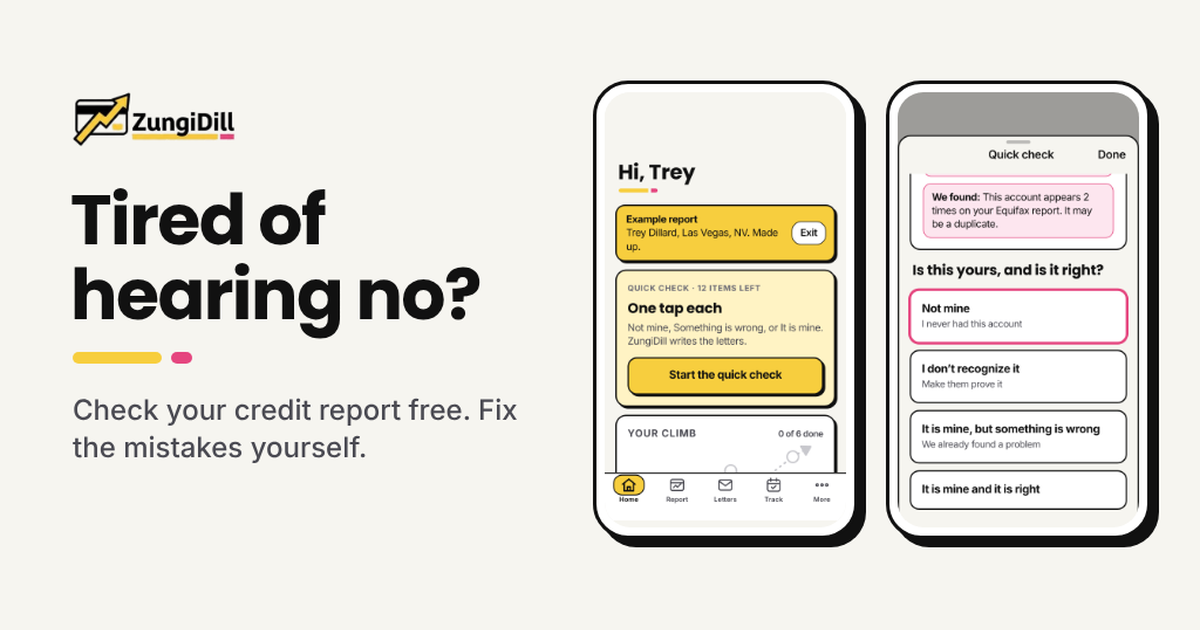
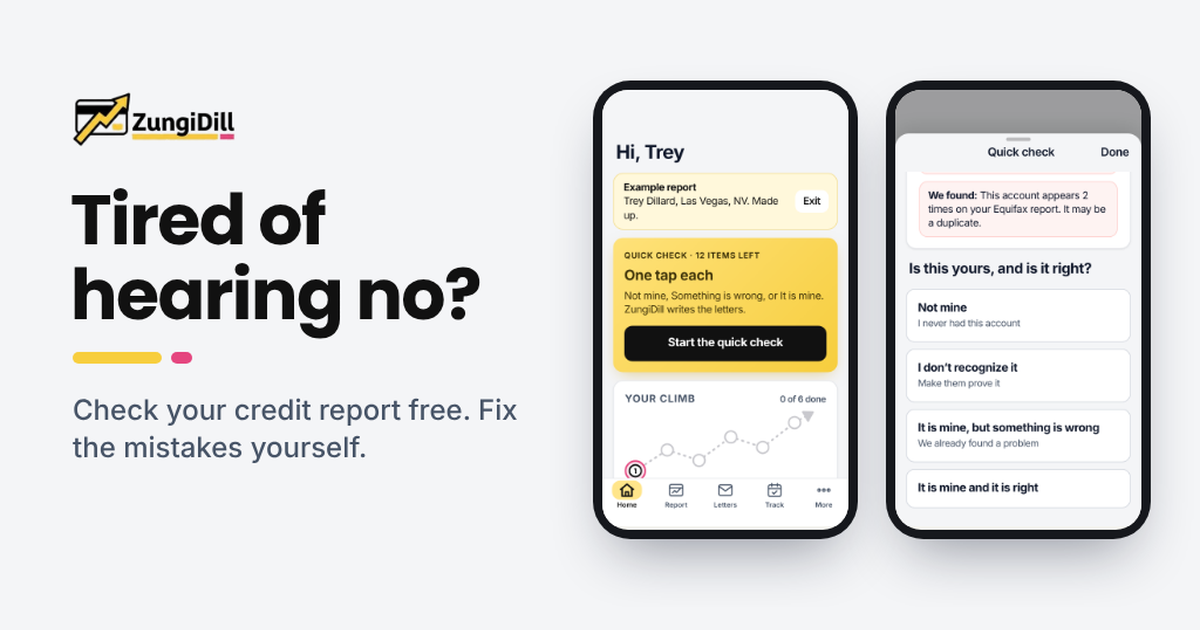
Notify box at top, message form at bottom, color look, Learn guides

Changed region(s): [[0.4933, 0.1206, 0.9867, 0.9048]]

diff --git a/index.html b/index.html
@@ -32,7 +32,7 @@
     <a class="logo" href="/" aria-label="ZungiDill home"><img src="/img/logo.png" alt="ZungiDill" width="152" height="38"></a>
     <nav aria-label="Main">
       <ul>
-        <li><a href="/#how">How it works</a></li>
+        <li class="hide-sm"><a href="/#how">How it works</a></li>
         <li><a href="/learn/">Learn</a></li>
         <li class="hide-sm"><a href="/#questions">Questions</a></li>
         <li><a href="/support">Support</a></li>
@@ -50,11 +50,16 @@
       <p class="lede">You work hard and pay your way, a lot of times in cash. Still the answer is no, or yes with a payment that hurts. Sometimes what holds you back is a mistake on your credit report. ZungiDill helps you find it and fix it yourself.</p>
       <div class="stores">
         <a href="https://play.google.com/store/apps/details?id=com.numerita.zungidil" aria-label="Get it on Google Play"><img src="/img/badge-google-play.png" alt="Get it on Google Play" width="176" height="52"></a>
-        <a href="#notify" aria-label="iPhone app coming soon. Join the list"><img src="/img/badge-app-store-soon.png" alt="Download on the App Store, coming soon" width="147" height="52"></a>
+        <a class="soon" href="#notify"><svg viewBox="0 0 24 24" aria-hidden="true"><rect x="6" y="2" width="12" height="20" rx="3"/><path d="M11 18h2"/></svg><span><small>Coming soon on</small>App Store</span></a>
       </div>
+      <form class="notify" id="notify" action="https://tally.so/r/VLR6RJ" method="get" target="_blank" rel="noopener">
+        <label for="nemail"><b>Get notified when ZungiDill is on the App Store</b></label>
+        <div class="nrow"><input id="nemail" name="email" type="email" placeholder="Your email" autocomplete="email" required><button class="nbtn" type="submit">Notify me</button></div>
+        <label class="ncheck"><input type="checkbox" required><span>Email me once when the iPhone app is available. Nothing else. <a href="/privacy#launch-list">Privacy</a></span></label>
+      </form>
       <ul class="ticks"><li>Free to check</li><li>No account</li><li>No Social Security number</li><li>Stays on your phone</li><li>No monthly plan required</li></ul>
     </div>
-    <div class="phone"><img src="/img/zd-home.webp" alt="ZungiDill home screen with a quick check and your next step" width="620" height="1265" fetchpriority="high"></div>
+    <div class="wall" aria-label="ZungiDill app screens"><div class="col c1"><img src="/img/screens/welcome.webp" alt="Welcome screen with three steps" width="600" height="1300" loading="lazy"><img src="/img/screens/qc.webp" alt="Quick check asking if an item is yours" width="600" height="1300" fetchpriority="high"><img src="/img/screens/letters.webp" alt="A dispute letter ready to print" width="600" height="1300" loading="lazy"></div><div class="col c2"><img src="/img/screens/home.webp" alt="Home screen with a quick check and your next step" width="600" height="1300" fetchpriority="high"><img src="/img/screens/report.webp" alt="Report tab with items to check, in dispute and fixed" width="600" height="1300" loading="lazy"><img src="/img/screens/track.webp" alt="Track tab counting the days until the bureau must answer" width="600" height="1300" loading="lazy"></div><div class="col c3"><img src="/img/screens/qc2.webp" alt="Quick check flagging a collection that may be too old to report" width="600" height="1300" fetchpriority="high"><img src="/img/screens/rows.webp" alt="Report items marked in red when something is wrong" width="600" height="1300" loading="lazy"><img src="/img/screens/plan.webp" alt="A plan for getting a car on your terms" width="600" height="1300" loading="lazy"></div></div>
   </div>
 </section>
 
@@ -75,7 +80,7 @@
     <div class="sh"><h2 id="how-h">How it works</h2><p>No forms to figure out and no calls to make. You stay in charge the whole way.</p></div>
     <div class="steps">
       <article class="step"><div class="shot"><img src="/img/zd-report.webp" alt="Report screen with your progress and your path" width="620" height="1265" loading="lazy"></div><div class="txt"><p class="n">First</p><h3>Bring in your report</h3><p>Get your free report and open it in ZungiDill. A photo of a paper copy works too.</p></div></article>
-      <article class="step"><div class="shot"><img src="/img/zd-quick-check.webp" alt="Quick check asking if an address on your report is yours" width="620" height="1265" loading="lazy"></div><div class="txt"><p class="n">Next</p><h3>Tap what is wrong</h3><p>Not mine. I don't know this one. Something is off. Your taps become the letter.</p></div></article>
+      <article class="step"><div class="shot"><img src="/img/zd-quick-check.webp" alt="Quick check asking if an item on your report is yours" width="620" height="1265" loading="lazy"></div><div class="txt"><p class="n">Next</p><h3>Tap what is wrong</h3><p>Not mine. I don't know this one. Something is off. Your taps become the letter.</p></div></article>
       <article class="step"><div class="shot"><img src="/img/zd-track.webp" alt="Track screen showing a letter waiting for an answer" width="620" height="1265" loading="lazy"></div><div class="txt"><p class="n">Then</p><h3>Mail it, we keep watch</h3><p>Add the day it arrived. ZungiDill reminds you when they owe you an answer and helps you read it.</p></div></article>
     </div>
     <p class="timing"><b>How long does it take?</b> The credit bureaus usually have about 30 days to answer each letter. Start now, so it can be done before you apply for the car, the place or the card.</p>
@@ -109,12 +114,6 @@
         <h3>Send us a message</h3>
         <iframe class="tally" data-tally-src="https://tally.so/embed/Zj479y?alignLeft=1&amp;hideTitle=1&amp;transparentBackground=1&amp;dynamicHeight=1" loading="lazy" width="100%" height="300" frameborder="0" marginheight="0" marginwidth="0" title="Send us a message"></iframe>
         <noscript><p class="fine"><a href="https://tally.so/r/Zj479y">Open the form</a></p></noscript>
-      </div>
-      <div class="panel" id="notify">
-        <h3>iPhone is coming</h3>
-        <iframe class="tally" data-tally-src="https://tally.so/embed/VLR6RJ?alignLeft=1&amp;hideTitle=1&amp;transparentBackground=1&amp;dynamicHeight=1" loading="lazy" width="100%" height="150" frameborder="0" marginheight="0" marginwidth="0" title="iPhone launch list"></iframe>
-        <noscript><p class="fine"><a href="https://tally.so/r/VLR6RJ">Open the form</a></p></noscript>
-        <p class="fine"><a href="/privacy#launch-list">How we use your email</a></p>
       </div>
     </div>
   </div>

diff --git a/css/site.css b/css/site.css
@@ -206,3 +206,43 @@ ol.sources{padding-left:22px;display:grid;gap:6px;font-size:15px}
 footer .grid{grid-template-columns:1.2fr 1fr 1fr 1fr}
 @media (max-width:900px){.cards{grid-template-columns:1fr}footer .grid{grid-template-columns:1fr 1fr}}
 .doc ul.cards{padding-left:0;display:grid;gap:12px}.doc .cta h3{margin-top:0}.doc .cards li{color:inherit}
+.phone{border:0;background:#16181D;padding:9px;box-shadow:0 30px 60px -28px rgba(15,23,42,.45)}
+/* hero screen wall */
+.hero{grid-template-columns:1fr 1fr;align-items:center}
+.hero>div:first-child{padding-top:0}
+section.first{padding:0;overflow:hidden}
+section.first .hero>div:first-child{padding:56px 0}
+.wall{position:relative;height:640px;display:flex;gap:28px;justify-content:center;-webkit-mask-image:linear-gradient(transparent,#000 9%,#000 91%,transparent);mask-image:linear-gradient(transparent,#000 9%,#000 91%,transparent)}
+.wall .col{display:flex;flex-direction:column;gap:28px;flex:none;width:200px}
+.wall .c1{margin-top:-210px}.wall .c2{margin-top:-90px}.wall .c3{margin-top:40px}
+.wall img{width:200px;height:auto;aspect-ratio:600/1300;border:7px solid #E4E7EC;border-radius:24px;box-shadow:0 35px 64px rgba(77,77,77,.2);background:#F4F5F7;box-sizing:content-box}
+@media (max-width:900px){
+  section.first .hero>div:first-child{padding:36px 0 8px}
+  .wall{height:430px;gap:16px}
+  .wall .col{width:150px;gap:16px}.wall img{width:150px;border-width:5px;border-radius:18px}
+  .wall .c1{margin-top:-150px}.wall .c2{margin-top:-60px}.wall .c3{margin-top:20px}
+}
+@media (max-width:520px){.wall .c3{display:none}}
+.bar .logo{flex:none}
+@media (max-width:900px){.hero{grid-template-columns:1fr}}
+/* coming soon badge + notify card */
+.stores .soon{display:flex;align-items:center;gap:8px;height:52px;padding:0 16px 0 12px;border-radius:9px;background:#ECEDEF;color:#111;text-decoration:none}
+.stores .soon svg{width:22px;height:22px;fill:none;stroke:#111;stroke-width:1.9;stroke-linecap:round}
+.stores .soon span{display:flex;flex-direction:column;line-height:1.05;font-size:19px;font-weight:600;letter-spacing:-.01em}
+.stores .soon small{font-size:10.5px;font-weight:500;color:#45454C;letter-spacing:0}
+.notify{margin-top:20px;background:#fff;border-radius:14px;padding:16px 18px;box-shadow:0 1px 2px rgba(16,24,40,.05),0 6px 20px -8px rgba(16,24,40,.12);max-width:500px}
+.notify>label b{font-size:15px}
+.nrow{display:flex;gap:8px;margin-top:10px}
+.nrow input{flex:1;min-width:0;height:46px;border:1px solid #D0D5DD;border-radius:10px;padding:0 14px;font:inherit;font-size:15.5px;background:#fff}
+.nrow input:focus{outline:0;border-color:#111;box-shadow:0 0 0 3px rgba(247,206,62,.5)}
+.nbtn{height:46px;padding:0 18px;border:0;border-radius:10px;background:#111;color:#fff;font:600 15.5px var(--sans);cursor:pointer;white-space:nowrap}
+.nbtn:hover{background:#2B2B2B}
+.ncheck{display:flex;align-items:center;gap:8px;margin-top:10px;font-size:13.5px;color:var(--ink2);flex-wrap:wrap}
+.ncheck input{width:16px;height:16px;margin:0;accent-color:#111}
+.ncheck a{color:var(--ink)}
+.forms{grid-template-columns:1fr;max-width:720px}
+.hero .ticks{margin-top:16px}
+@media (max-width:420px){.nrow{flex-direction:column}.nbtn{width:100%}}
+.ncheck{flex-wrap:nowrap;align-items:flex-start}
+.ncheck input{margin-top:2px;flex:none}
+@media (max-width:420px){.nrow input{flex:none;width:100%}}

diff --git a/guide.html b/guide.html
@@ -32,7 +32,7 @@
     <a class="logo" href="/" aria-label="ZungiDill home"><img src="/img/logo.png" alt="ZungiDill" width="152" height="38"></a>
     <nav aria-label="Main">
       <ul>
-        <li><a href="/#how">How it works</a></li>
+        <li class="hide-sm"><a href="/#how">How it works</a></li>
         <li><a href="/learn/" aria-current="page">Learn</a></li>
         <li class="hide-sm"><a href="/#questions">Questions</a></li>
         <li><a href="/support">Support</a></li>

diff --git a/learn/car-loan.html b/learn/car-loan.html
@@ -32,7 +32,7 @@
     <a class="logo" href="/" aria-label="ZungiDill home"><img src="/img/logo.png" alt="ZungiDill" width="152" height="38"></a>
     <nav aria-label="Main">
       <ul>
-        <li><a href="/#how">How it works</a></li>
+        <li class="hide-sm"><a href="/#how">How it works</a></li>
         <li><a href="/learn/" aria-current="page">Learn</a></li>
         <li class="hide-sm"><a href="/#questions">Questions</a></li>
         <li><a href="/support">Support</a></li>

diff --git a/learn/collections.html b/learn/collections.html
@@ -32,7 +32,7 @@
     <a class="logo" href="/" aria-label="ZungiDill home"><img src="/img/logo.png" alt="ZungiDill" width="152" height="38"></a>
     <nav aria-label="Main">
       <ul>
-        <li><a href="/#how">How it works</a></li>
+        <li class="hide-sm"><a href="/#how">How it works</a></li>
         <li><a href="/learn/" aria-current="page">Learn</a></li>
         <li class="hide-sm"><a href="/#questions">Questions</a></li>
         <li><a href="/support">Support</a></li>

diff --git a/learn/credit-repair.html b/learn/credit-repair.html
@@ -32,7 +32,7 @@
     <a class="logo" href="/" aria-label="ZungiDill home"><img src="/img/logo.png" alt="ZungiDill" width="152" height="38"></a>
     <nav aria-label="Main">
       <ul>
-        <li><a href="/#how">How it works</a></li>
+        <li class="hide-sm"><a href="/#how">How it works</a></li>
         <li><a href="/learn/" aria-current="page">Learn</a></li>
         <li class="hide-sm"><a href="/#questions">Questions</a></li>
         <li><a href="/support">Support</a></li>

diff --git a/learn/dispute-letter.html b/learn/dispute-letter.html
@@ -32,7 +32,7 @@
     <a class="logo" href="/" aria-label="ZungiDill home"><img src="/img/logo.png" alt="ZungiDill" width="152" height="38"></a>
     <nav aria-label="Main">
       <ul>
-        <li><a href="/#how">How it works</a></li>
+        <li class="hide-sm"><a href="/#how">How it works</a></li>
         <li><a href="/learn/" aria-current="page">Learn</a></li>
         <li class="hide-sm"><a href="/#questions">Questions</a></li>
         <li><a href="/support">Support</a></li>

diff --git a/learn/goodwill-letter.html b/learn/goodwill-letter.html
@@ -32,7 +32,7 @@
     <a class="logo" href="/" aria-label="ZungiDill home"><img src="/img/logo.png" alt="ZungiDill" width="152" height="38"></a>
     <nav aria-label="Main">
       <ul>
-        <li><a href="/#how">How it works</a></li>
+        <li class="hide-sm"><a href="/#how">How it works</a></li>
         <li><a href="/learn/" aria-current="page">Learn</a></li>
         <li class="hide-sm"><a href="/#questions">Questions</a></li>
         <li><a href="/support">Support</a></li>

diff --git a/learn/how-long.html b/learn/how-long.html
@@ -32,7 +32,7 @@
     <a class="logo" href="/" aria-label="ZungiDill home"><img src="/img/logo.png" alt="ZungiDill" width="152" height="38"></a>
     <nav aria-label="Main">
       <ul>
-        <li><a href="/#how">How it works</a></li>
+        <li class="hide-sm"><a href="/#how">How it works</a></li>
         <li><a href="/learn/" aria-current="page">Learn</a></li>
         <li class="hide-sm"><a href="/#questions">Questions</a></li>
         <li><a href="/support">Support</a></li>

diff --git a/learn/index.html b/learn/index.html
@@ -32,7 +32,7 @@
     <a class="logo" href="/" aria-label="ZungiDill home"><img src="/img/logo.png" alt="ZungiDill" width="152" height="38"></a>
     <nav aria-label="Main">
       <ul>
-        <li><a href="/#how">How it works</a></li>
+        <li class="hide-sm"><a href="/#how">How it works</a></li>
         <li><a href="/learn/" aria-current="page">Learn</a></li>
         <li class="hide-sm"><a href="/#questions">Questions</a></li>
         <li><a href="/support">Support</a></li>

diff --git a/learn/mistakes.html b/learn/mistakes.html
@@ -32,7 +32,7 @@
     <a class="logo" href="/" aria-label="ZungiDill home"><img src="/img/logo.png" alt="ZungiDill" width="152" height="38"></a>
     <nav aria-label="Main">
       <ul>
-        <li><a href="/#how">How it works</a></li>
+        <li class="hide-sm"><a href="/#how">How it works</a></li>
         <li><a href="/learn/" aria-current="page">Learn</a></li>
         <li class="hide-sm"><a href="/#questions">Questions</a></li>
         <li><a href="/support">Support</a></li>

diff --git a/learn/not-mine.html b/learn/not-mine.html
@@ -32,7 +32,7 @@
     <a class="logo" href="/" aria-label="ZungiDill home"><img src="/img/logo.png" alt="ZungiDill" width="152" height="38"></a>
     <nav aria-label="Main">
       <ul>
-        <li><a href="/#how">How it works</a></li>
+        <li class="hide-sm"><a href="/#how">How it works</a></li>
         <li><a href="/learn/" aria-current="page">Learn</a></li>
         <li class="hide-sm"><a href="/#questions">Questions</a></li>
         <li><a href="/support">Support</a></li>
